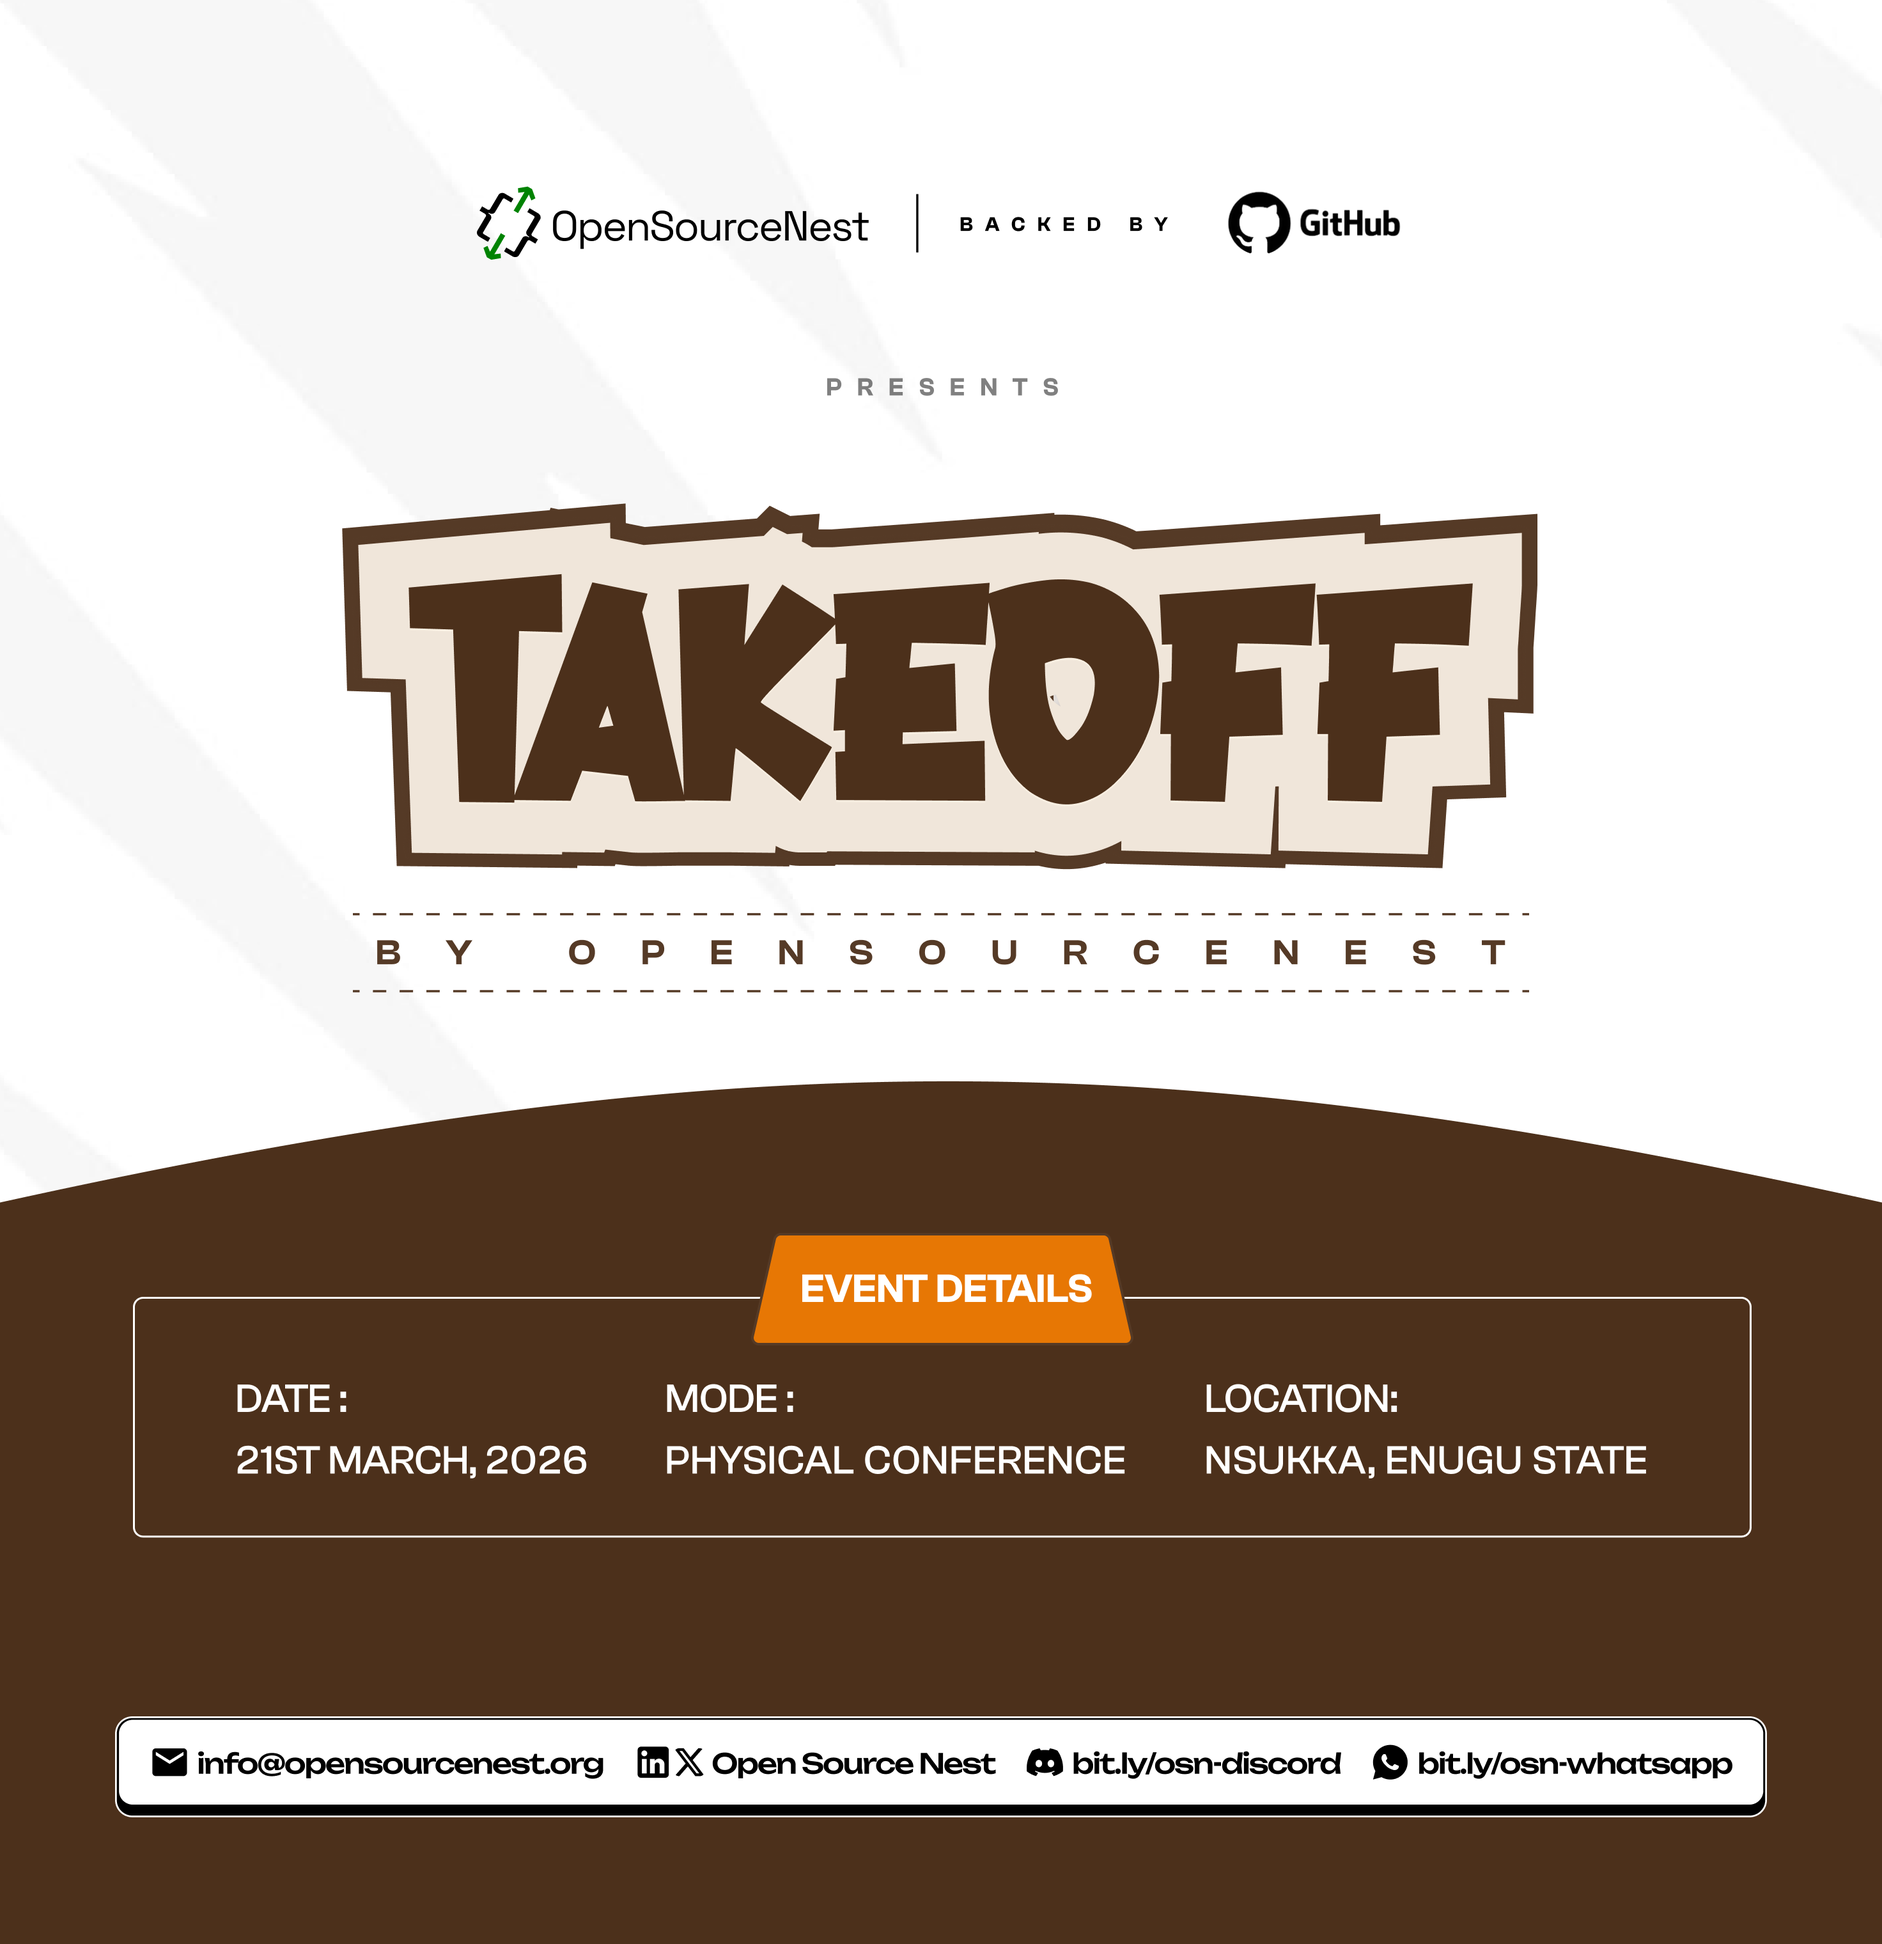
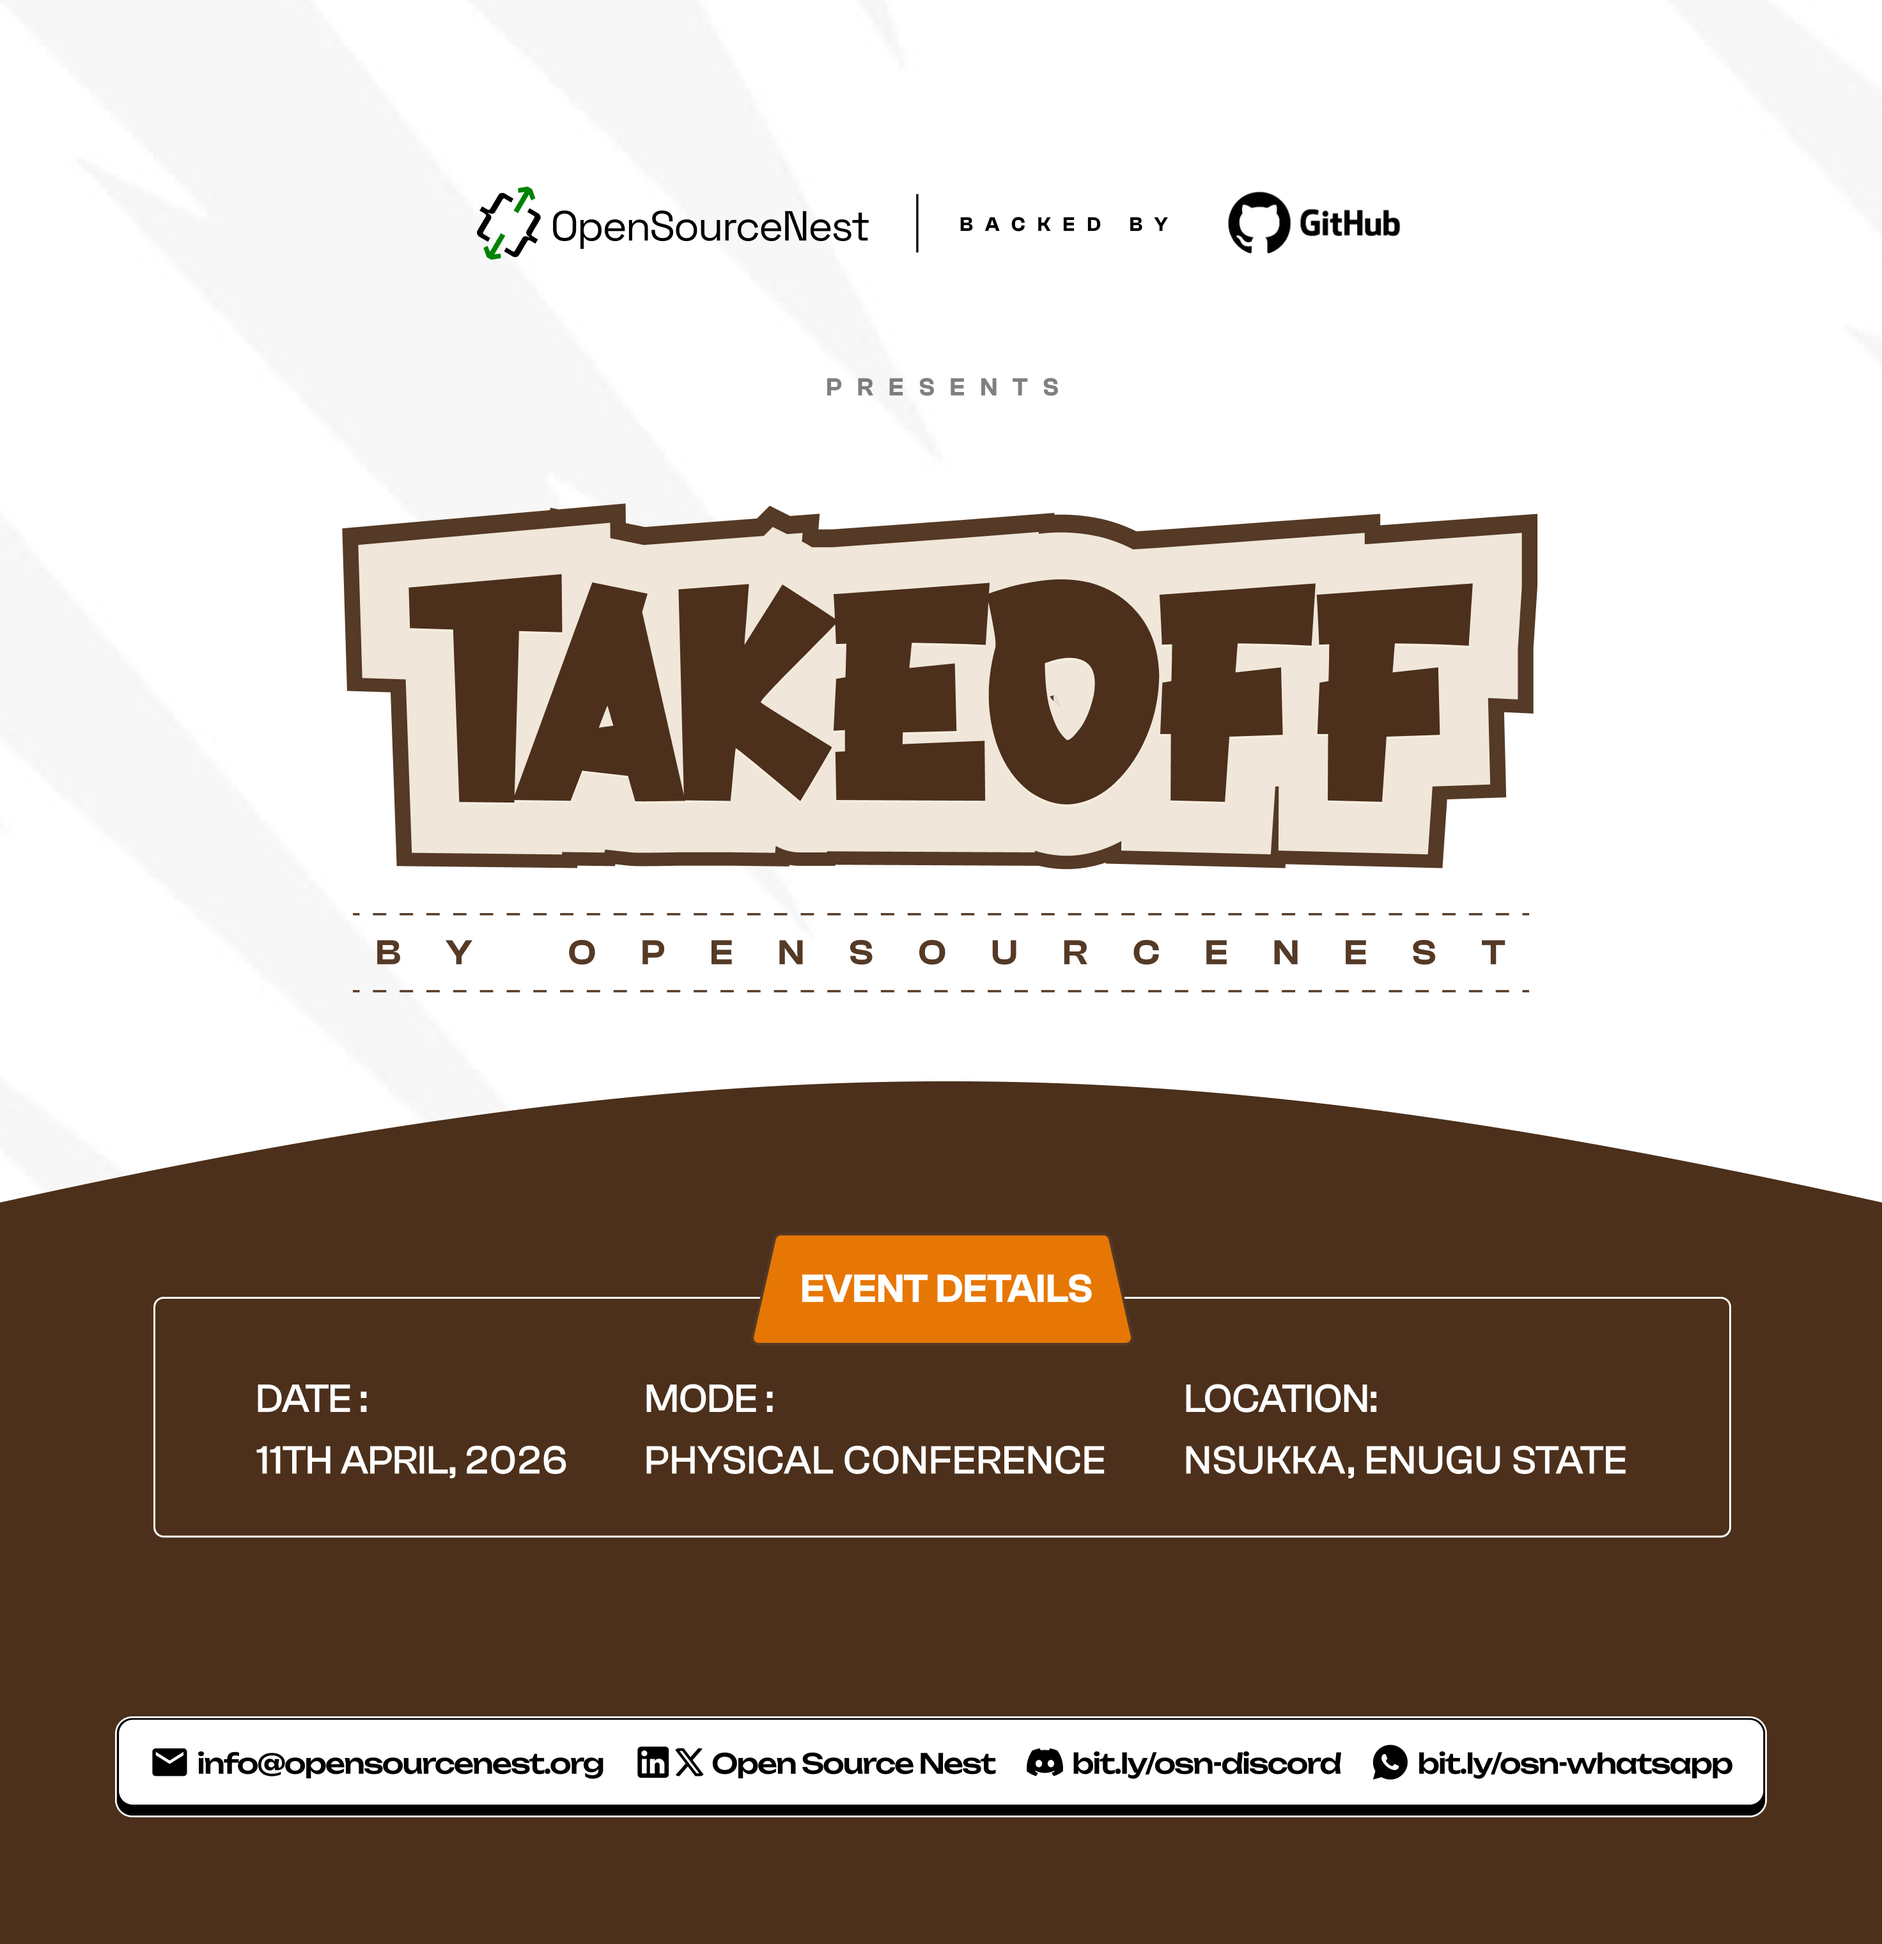
fix: update takeoff date

Changed region(s): [[0.625, 0.6875, 0.875, 0.7812], [0.3438, 0.6875, 0.5938, 0.7812], [0.125, 0.6875, 0.3125, 0.7812]]

diff --git a/src/data/campaignTimeline.data.ts b/src/data/campaignTimeline.data.ts
@@ -99,7 +99,7 @@ export const campaignTimelineData: ICampaignTimelineData[] = [
         featuring: "Featuring: Onyeabor Darlington, and Eriol Fox",
       },
       {
-        date: "21st March, 2026",
+        date: "11th April, 2026",
         title: "Takeoff by OSN",
         description:
           "Wrap-up event to reinforce open source involvement, inspire open source growth & showcase impact",
